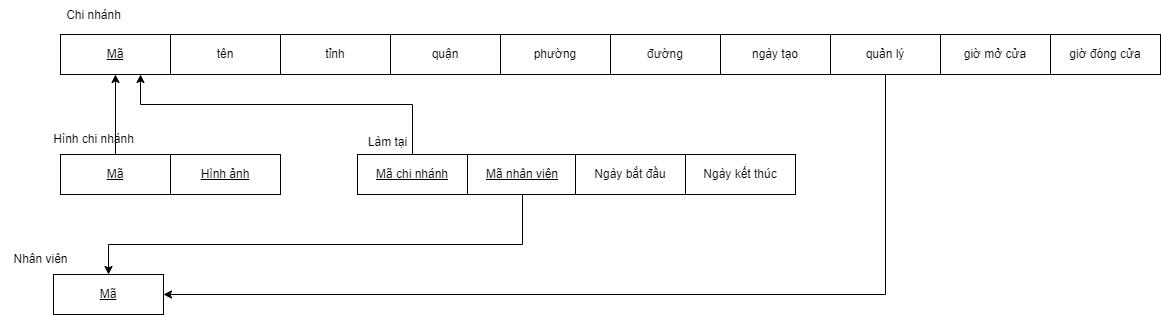
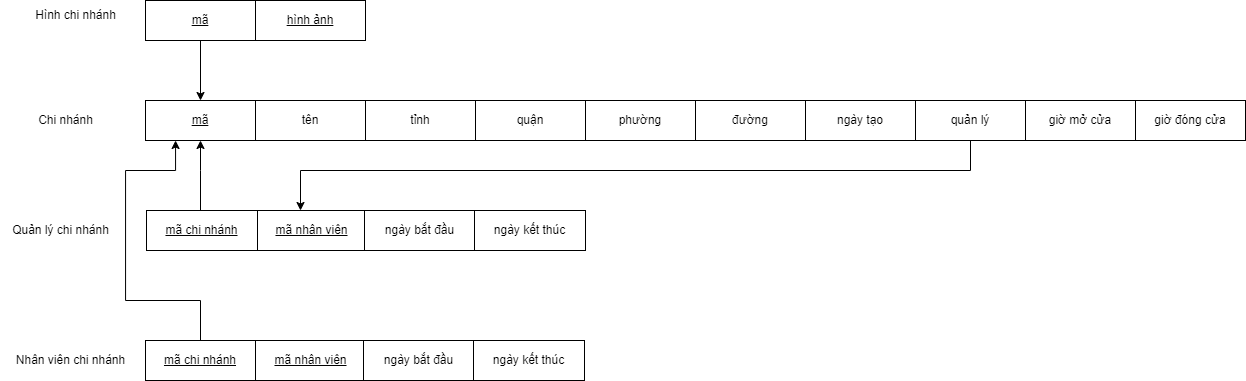
update type mapping

diff --git a/tex/database.tex b/tex/database.tex
@@ -512,6 +512,8 @@ Bảng dữ liệu Sự kiện có hàng trong service Sự kiện bao gồm cá
 	\end{center}
 \end{figure}
 
+
+
 \subsubsection{Service chi nhánh}
 \begin{figure}[!htp]
 	\begin{center}
@@ -520,6 +522,34 @@ Bảng dữ liệu Sự kiện có hàng trong service Sự kiện bao gồm cá
 		\caption{Ánh xạ cho database của service chi nhánh}
 	\end{center}
 \end{figure}
+
+Bảng "Chi nhánh" bao gồm các thuộc tính và kiểu dữ liệu như sau:
+\begin{itemize}
+	\item mã: string.
+	\item tên: string.
+	\item tỉnh: string.
+	\item quận: string.
+	\item phường: string.
+	\item đường: string.
+	\item ngày tạo: dateTime.
+	\item quản lý: string.
+	\item giờ mở cửa: time.
+	\item giờ đóng cửa: time.
+\end{itemize}
+
+Bảng "Hình chi nhánh" bao gồm các thuộc tính và kiểu dữ liệu như sau:
+\begin{itemize}
+	\item mã: string.
+	\item hình ảnh: string.
+\end{itemize}
+
+Bảng "Quản lý chi nhánh" và "Nhân viên chi nhánh"  bao gồm các thuộc tính và kiểu dữ liệu như sau:
+\begin{itemize}
+	\item mã nhân viên: string.
+	\item mã kho: string.
+	\item ngày bắt đầu: dateTime.
+	\item ngày kết thúc: dateTime.
+\end{itemize}
 
 
 \subsubsection{Service tài khoản}
@@ -531,6 +561,14 @@ Bảng dữ liệu Sự kiện có hàng trong service Sự kiện bao gồm cá
 	\end{center}
 \end{figure}
 
+Bảng "Tài khoản" bao gồm các thuộc tính và kiểu dữ liệu như sau:
+\begin{itemize}
+	\item tên đăng nhập: string.
+	\item mật khẩu: string.
+	\item quyền: int.
+\end{itemize}
+
+
 \subsubsection{Service nhân viên}
 \begin{figure}[!htp]
 	\begin{center}
@@ -539,6 +577,46 @@ Bảng dữ liệu Sự kiện có hàng trong service Sự kiện bao gồm cá
 		\caption{Ánh xạ cho database của service nhân viên}
 	\end{center}
 \end{figure}
+
+Bảng "Tài khoản" bao gồm các thuộc tính và kiểu dữ liệu như sau:
+\begin{itemize}
+	\item Tên đăng nhập: string.
+	\item Mã nhân viên: string.
+\end{itemize}
+
+Bảng "Nhân viên" bao gồm các thuộc tính và kiểu dữ liệu như sau:
+\begin{itemize}
+	\item mã: string.
+	\item tên: string.
+	\item tỉnh: string.
+	\item quận: string.
+	\item phường: string.
+	\item đường: string.
+	\item cmnd: string.
+	\item vị trí: int.
+	\item ngày vào: dateTime.
+	\item lương: int.
+	\item giới tính: int. 
+	\item sdt: string.  
+	\item email: string. 
+\end{itemize}
+
+Bảng "Bản điểm danh" bao gồm các thuộc tính và kiểu dữ liệu như sau:
+\begin{itemize}
+	\item mã nhân viên: string.
+	\item ngày: dateTime.
+	\item thời gian vào: time.
+	\item thời gian ra: time.
+\end{itemize}
+
+Bảng "Bản yêu cầu" bao gồm các thuộc tính và kiểu dữ liệu như sau:
+\begin{itemize}
+	\item mã: string.
+	\item ngày yêu cầu: dateTime.
+	\item loại: int.
+	\item mã nhân viên: string.
+	\item trạng thái: time.
+\end{itemize}
 
 
 \subsubsection{Service thống kê}
@@ -549,3 +627,22 @@ Bảng dữ liệu Sự kiện có hàng trong service Sự kiện bao gồm cá
 		\caption{Ánh xạ cho database của service thống kê}
 	\end{center}
 \end{figure}
+
+Bảng "Hàng hóa" bao gồm các thuộc tính và kiểu dữ liệu như sau:
+\begin{itemize}
+	\item mã hàng: string.
+	\item kích thước: string.
+	\item màu: string.
+	\item loại: string.
+	\item giới tính: int.
+	\item chi phí: int.
+	\item đơn giá: int.
+	\item số lượng: int.
+	\item đơn hàng: string.
+\end{itemize}
+
+\begin{itemize}
+	\item mã đơn hàng: string.
+	\item ngày giao dịch: dateTime.
+	\item mã cửa hàng: string.
+\end{itemize}

diff --git a/main.tex b/main.tex
@@ -220,11 +220,11 @@
 
 \newpage
 % Architecture
-\input{tex/architecture}
+% \input{tex/architecture}
 
 \newpage
 % Database
-% \input{tex/database}
+\input{tex/database}
 
 \newpage
 % UI
